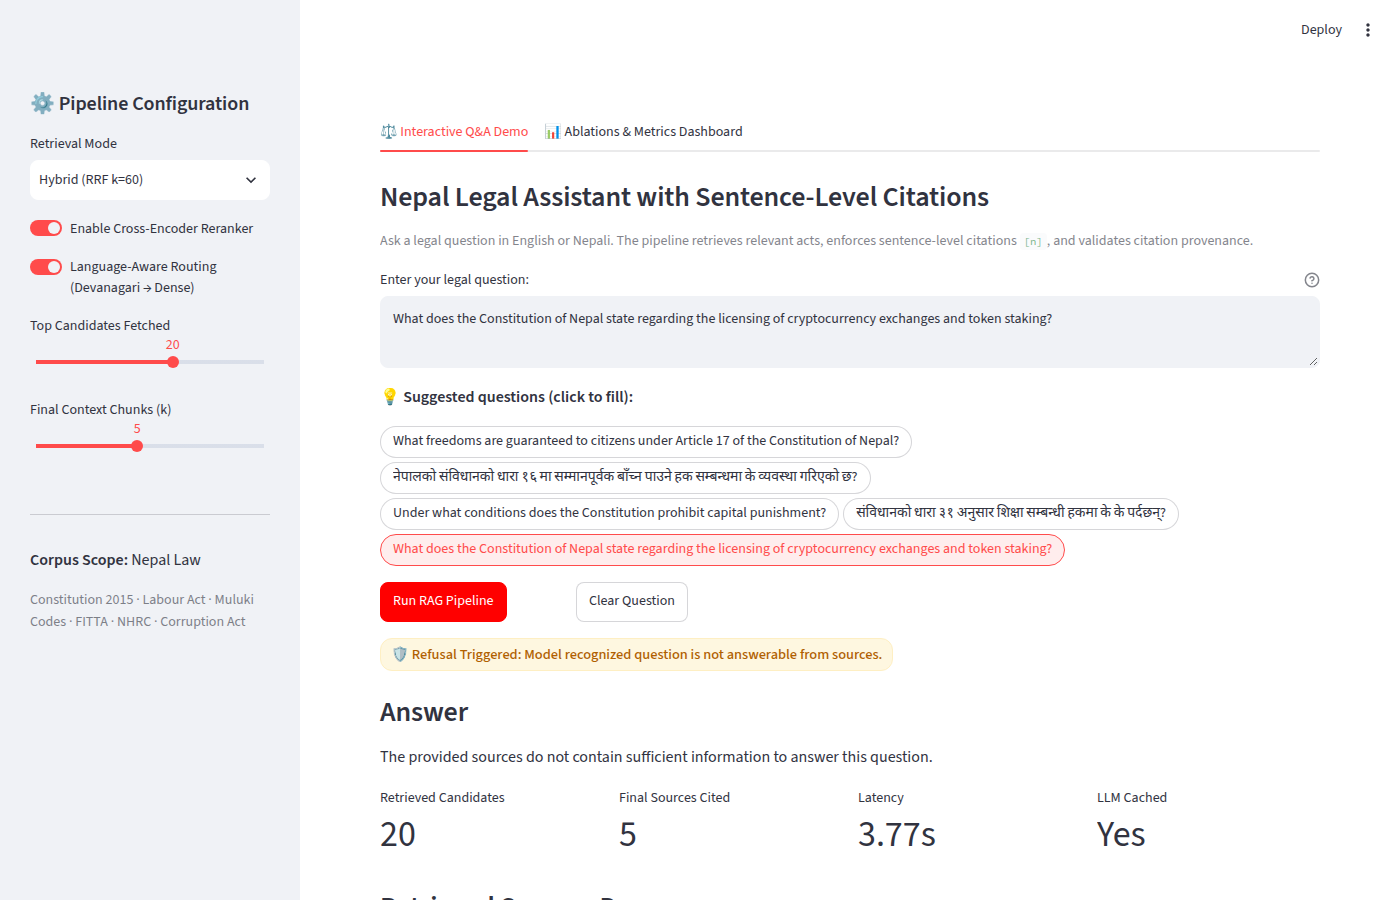
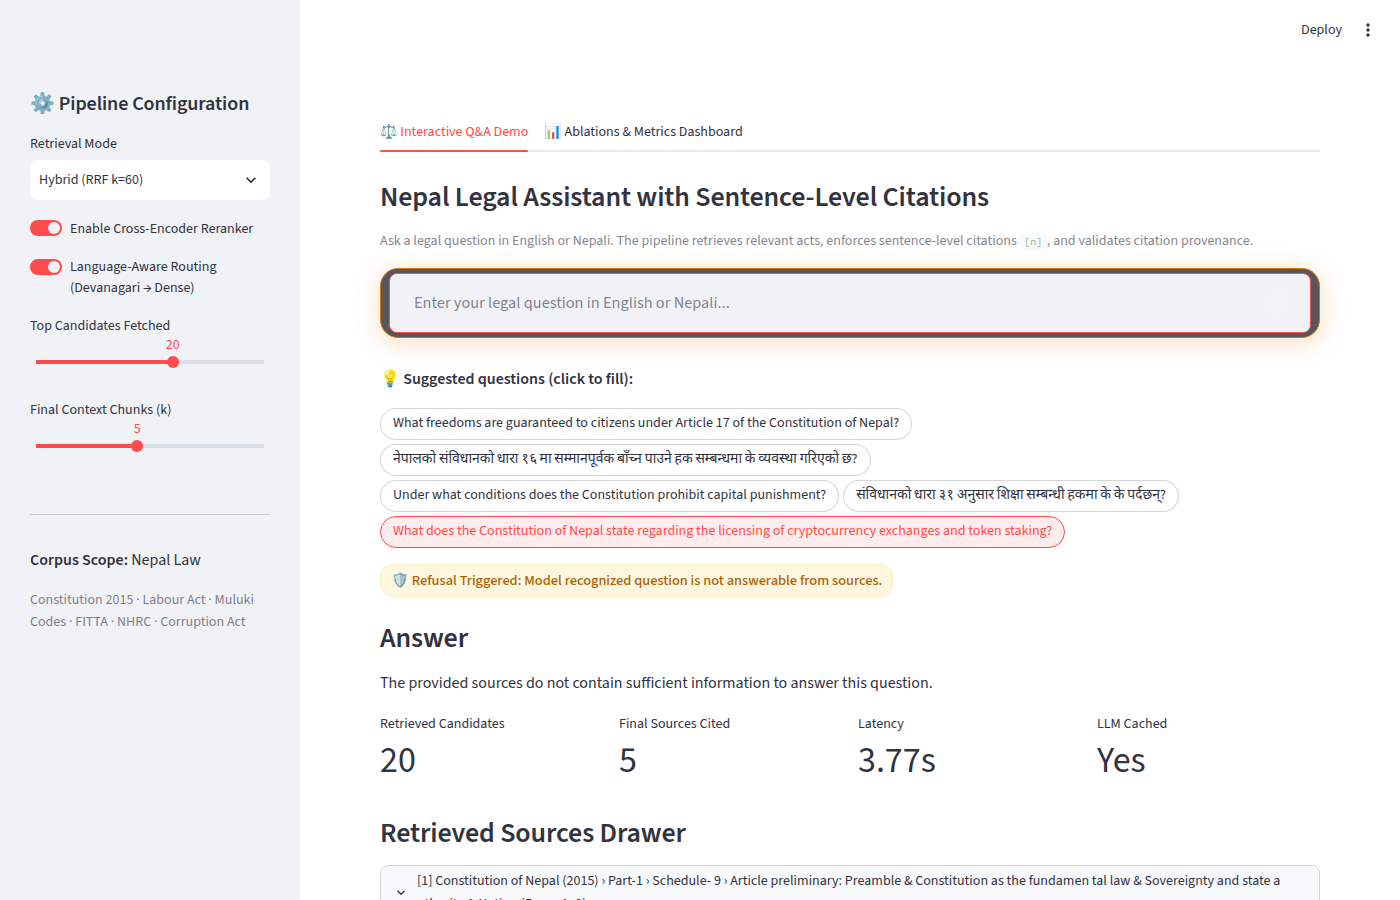
feat(ui): embed circular submit button inside textarea like Claude and remove external action buttons

Changed region(s): [[0.2457, 0.28, 0.9521, 1.0], [0.7986, 0.7778, 0.8293, 0.8089]]

diff --git a/app/streamlit_app.py b/app/streamlit_app.py
@@ -61,6 +61,43 @@ st.markdown(
         display: inline-block;
         margin-bottom: 12px;
     }
+    /* Claude-style embedded chat input */
+    div[data-testid="stChatInput"] {
+        border-radius: 18px !important;
+        border: 1.5px solid rgba(255, 255, 255, 0.15) !important;
+        background-color: rgba(30, 30, 36, 0.75) !important;
+        box-shadow: 0 4px 20px rgba(0, 0, 0, 0.25) !important;
+        padding: 4px 8px !important;
+        margin-bottom: 12px !important;
+        transition: border-color 0.2s ease, box-shadow 0.2s ease;
+    }
+    div[data-testid="stChatInput"]:focus-within {
+        border-color: #d97706 !important;
+        box-shadow: 0 4px 24px rgba(217, 119, 6, 0.25) !important;
+    }
+    div[data-testid="stChatInput"] textarea {
+        font-size: 1.02rem !important;
+        line-height: 1.5 !important;
+    }
+    div[data-testid="stChatInput"] button[data-testid="stChatInputSubmitButton"] {
+        background-color: #d97706 !important;
+        color: white !important;
+        border-radius: 50% !important;
+        width: 34px !important;
+        height: 34px !important;
+        display: flex !important;
+        align-items: center !important;
+        justify-content: center !important;
+        transition: transform 0.15s ease, background-color 0.15s ease !important;
+    }
+    div[data-testid="stChatInput"] button[data-testid="stChatInputSubmitButton"]:hover:not(:disabled) {
+        background-color: #f59e0b !important;
+        transform: scale(1.06) !important;
+    }
+    div[data-testid="stChatInput"] button[data-testid="stChatInputSubmitButton"]:disabled {
+        background-color: rgba(255, 255, 255, 0.1) !important;
+        color: rgba(255, 255, 255, 0.25) !important;
+    }
     </style>
     """,
     unsafe_allow_html=True,
@@ -120,29 +157,33 @@ with tab_qa:
         "What does the Constitution of Nepal state regarding the licensing of cryptocurrency exchanges and token staking?",
     ]
 
-    # Initialize query state
-    if "query_text" not in st.session_state:
-        st.session_state["query_text"] = ""
+    # Initialize query and result state
+    if "query_input_val" not in st.session_state:
+        st.session_state["query_input_val"] = ""
+    if "last_result" not in st.session_state:
+        st.session_state["last_result"] = None
 
     def apply_chip():
         chosen = st.session_state.get("chip_selection")
         if chosen:
-            st.session_state["query_text"] = chosen
+            st.session_state["query_input_val"] = chosen
 
-    def clear_query():
-        st.session_state["query_text"] = ""
-        st.session_state["chip_selection"] = None
+    retriever = get_retriever()
+    if retriever is None:
+        st.warning(
+            "⚠ Retrieval indexes not yet found in `data/index/`. "
+            "Please ensure `data/processed/chunks.jsonl` is indexed."
+        )
 
-    # Expanding textarea for long or multi-clause legal questions
-    query_input = st.text_area(
-        "Enter your legal question:",
-        key="query_text",
-        height=100,
-        placeholder="Type or paste any legal query in English or Nepali (field expands for long questions)...",
-        help="Text area expands automatically when questions are long.",
-    )
+    # Embedded input container with submit button inside the textarea
+    with st.container():
+        submitted_query = st.chat_input(
+            "Enter your legal question in English or Nepali...",
+            key="query_input_val",
+            disabled=(retriever is None),
+        )
 
-    # Chip-style example questions below the textarea
+    # Chip-style example questions below the input field
     st.markdown("💡 **Suggested questions (click to fill):**")
     st.pills(
         "Suggested questions",
@@ -153,28 +194,11 @@ with tab_qa:
         wrap=True,
     )
 
-    retriever = get_retriever()
-    if retriever is None:
-        st.warning(
-            "⚠ Retrieval indexes not yet found in `data/index/`. "
-            "Please ensure `data/processed/chunks.jsonl` is indexed."
-        )
-
-    btn_col1, btn_col2 = st.columns([1, 4])
-    with btn_col1:
-        run_submitted = st.button(
-            "Run RAG Pipeline",
-            type="primary",
-            disabled=(retriever is None or not query_input.strip()),
-        )
-    with btn_col2:
-        st.button("Clear Question", on_click=clear_query)
-
-    if run_submitted:
+    if submitted_query:
         with st.spinner("Retrieving candidates & generating cited answer..."):
             # 1. Retrieve
             candidates = retriever.retrieve(
-                query=query_input,
+                query=submitted_query,
                 top_k=top_k_candidates,
                 mode=retrieval_mode,
                 route_devanagari=route_devanagari,
@@ -183,7 +207,7 @@ with tab_qa:
             # 2. Rerank
             if reranker_enabled and candidates:
                 final_sources = rerank(
-                    query=query_input,
+                    query=submitted_query,
                     candidates=candidates,
                     top_k=final_k,
                 )
@@ -192,12 +216,28 @@ with tab_qa:
 
             # 3. Generate with citations
             gen_result = answer_with_citations(
-                question=query_input,
+                question=submitted_query,
                 sources=final_sources,
             )
 
             # 4. Structural validation
             val_report = validate_citations(gen_result.answer, num_sources=len(final_sources))
+
+            st.session_state["last_result"] = {
+                "question": submitted_query,
+                "candidates": candidates,
+                "final_sources": final_sources,
+                "gen_result": gen_result,
+                "val_report": val_report,
+            }
+
+    # Render results if available
+    if st.session_state.get("last_result") is not None:
+        res = st.session_state["last_result"]
+        candidates = res["candidates"]
+        final_sources = res["final_sources"]
+        gen_result = res["gen_result"]
+        val_report = res["val_report"]
 
         # Render citation validation status
         if val_report["is_refusal"]:

diff --git a/scripts/browser_test.py b/scripts/browser_test.py
@@ -59,7 +59,7 @@ def run_browser_tests():
         print(f"  Found title: '{title_text}'")
         assert "Nepal Legal Assistant" in title_text
 
-        # Test 2: Chip Click -> Textarea Fill
+        # Test 2: Chip Click -> Textarea Fill & Submit Button Enabled
         print("\n--- Test 2: Chip Click & Textarea Population ---")
         q1_button = page.locator("button:has-text('What freedoms are guaranteed')")
         assert q1_button.count() > 0, "First suggestion chip not found!"
@@ -75,20 +75,21 @@ def run_browser_tests():
         print(f"  Textarea content: '{current_val[:60]}...'")
         assert "Article 17" in current_val, "Textarea did not populate from chip!"
 
-        # Test 3: Clear Question Button
-        print("\n--- Test 3: Clear Question Button ---")
-        clear_btn = page.locator("button:has-text('Clear Question')")
-        assert clear_btn.count() > 0, "Clear Question button not found!"
-        print("  Clicking 'Clear Question'...")
-        clear_btn.click()
-        time.sleep(2)
-        check_no_exceptions("After Clear Question Click")
+        # Check embedded submit button inside textarea
+        submit_btn = page.locator("button[data-testid='stChatInputSubmitButton']")
+        assert submit_btn.count() > 0, "Embedded submit button inside textarea not found!"
+        assert not submit_btn.is_disabled(), "Submit button should be enabled when text is present!"
+        print("  ✓ Embedded submit button inside textarea is visible and enabled.")
 
-        cleared_val = textarea.input_value()
-        print(f"  Textarea content after clear: '{cleared_val}'")
-        assert cleared_val == "", f"Expected empty textarea, got '{cleared_val}'"
+        # Test 3: Verify External Buttons Removed
+        print("\n--- Test 3: Verify External Buttons Removed ---")
+        old_run_btn = page.locator("button:has-text('Run RAG Pipeline')")
+        old_clear_btn = page.locator("button:has-text('Clear Question')")
+        assert old_run_btn.count() == 0, "Old 'Run RAG Pipeline' button still present!"
+        assert old_clear_btn.count() == 0, "Old 'Clear Question' button still present!"
+        print("  ✓ Confirmed: External 'Run RAG Pipeline' and 'Clear Question' buttons removed.")
 
-        # Test 4: Chip Click for Nepali Query & Execution
+        # Test 4: Chip Click for Nepali Query & Execution via Embedded Submit Button
         print("\n--- Test 4: Nepali Query Selection & Pipeline Execution ---")
         nepali_chip = page.locator("button:has-text('नेपालको संविधानको धारा १६')")
         assert nepali_chip.count() > 0, "Nepali suggestion chip not found!"
@@ -97,9 +98,9 @@ def run_browser_tests():
         time.sleep(2)
         check_no_exceptions("After Nepali Chip Click")
 
-        run_btn = page.locator("button:has-text('Run RAG Pipeline')")
-        print("  Clicking 'Run RAG Pipeline'...")
-        run_btn.click()
+        print("  Clicking embedded submit button inside textarea...")
+        submit_btn = page.locator("button[data-testid='stChatInputSubmitButton']")
+        submit_btn.click()
 
         # Wait for RAG pipeline to complete and render status badge
         print("  Waiting for RAG response...")
@@ -140,7 +141,7 @@ def run_browser_tests():
         assert df_elem.count() > 0, "Dataframe not found in Tab 2!"
         print("  ✓ Ablations dataframe rendered successfully.")
 
-        # Test 6: English Query & Refusal Verification
+        # Test 6: English Query & Refusal Verification via Embedded Submit Button
         print("\n--- Test 6: Switch back to Tab 1 & Refusal Query Execution ---")
         tab_buttons.first.click()
         time.sleep(1)
@@ -153,9 +154,9 @@ def run_browser_tests():
         unans_chip.first.click()
         time.sleep(2)
 
-        print("  Clicking 'Run RAG Pipeline' for refusal test...")
-        run_btn = page.locator("button:has-text('Run RAG Pipeline')")
-        run_btn.click()
+        print("  Clicking embedded submit button inside textarea for refusal test...")
+        submit_btn = page.locator("button[data-testid='stChatInputSubmitButton']")
+        submit_btn.click()
         print("  Waiting for refusal response and validation badge...")
         page.wait_for_selector(".status-pill-ok, .status-pill-warn", timeout=45000)
         time.sleep(1)
